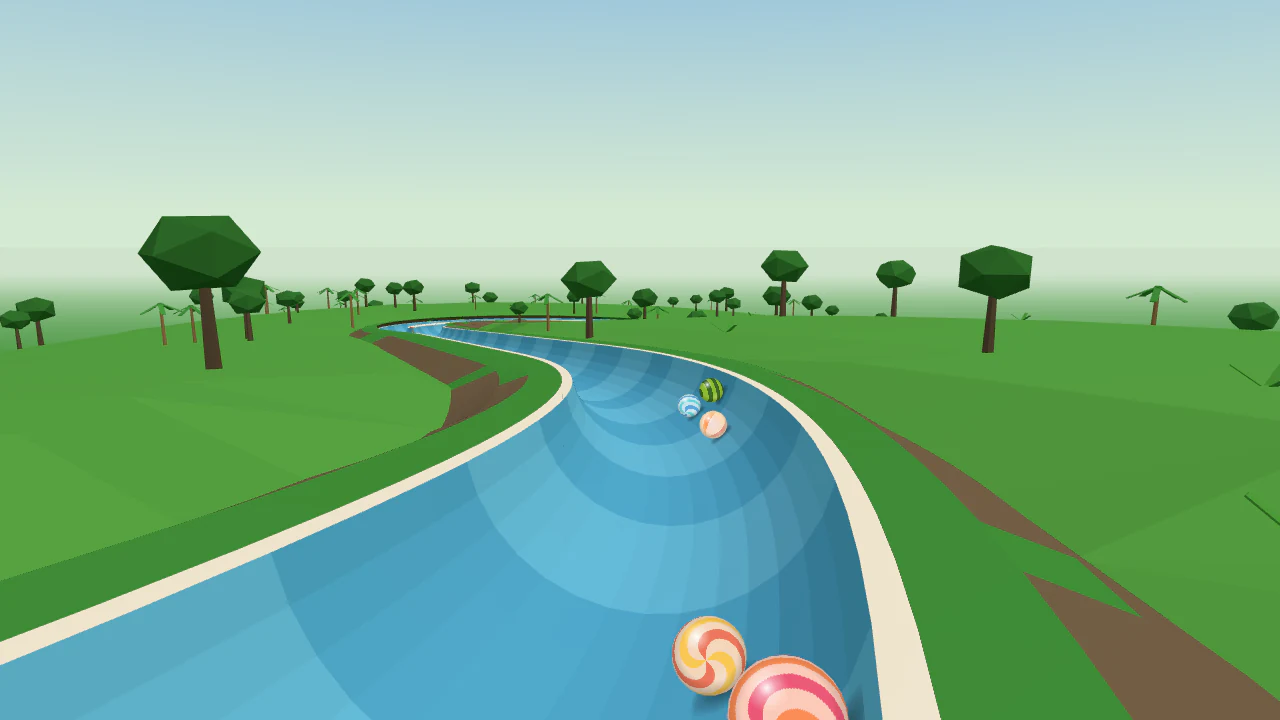
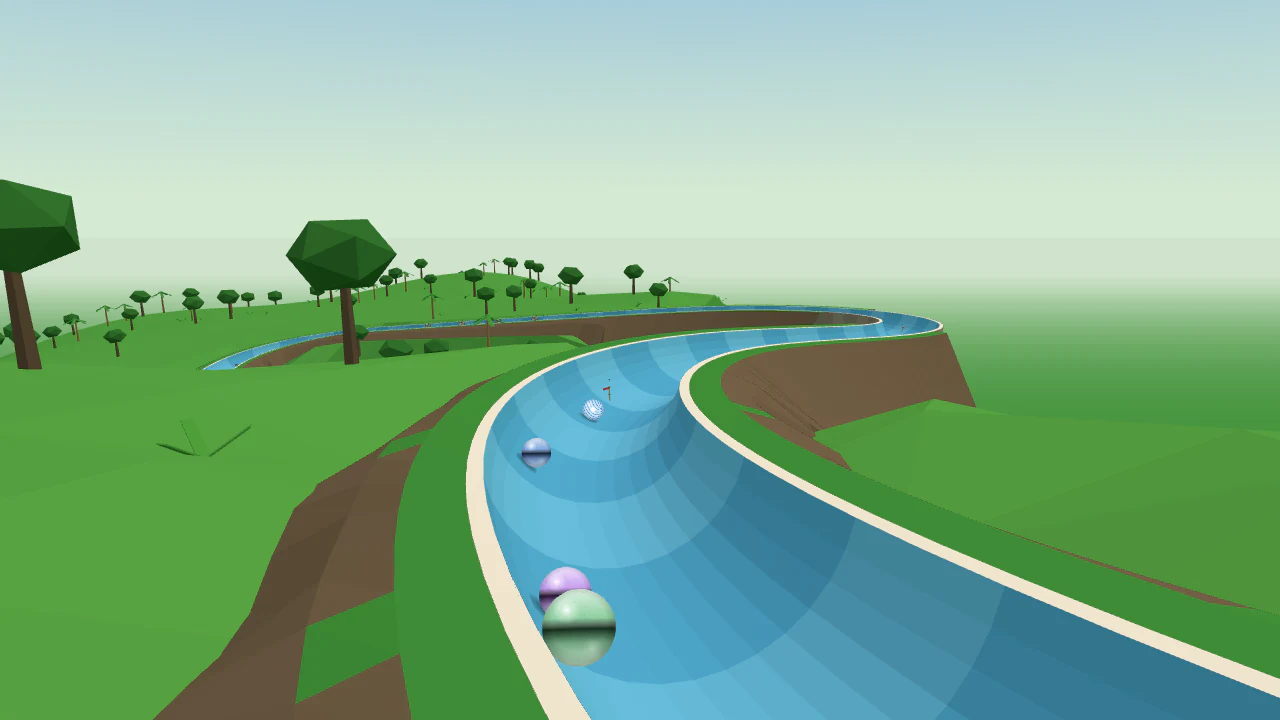
Amazon Water Run: its own layout; its records start again
Until now nearly the same track as the old World Tour design. Over the first
waterfall past the floating logs (the field now let go in waves: a track whose
start is its own first section can set waves on the track itself), tight
S-bends through the jungle, the rapids, the caiman hairpin, over the second
waterfall (the big feature and signature), the root spiral, S-bends along the
river and the run to the village on stilts. Full report 50/50; Easy 30. Data
updates 2027-07-27. Off the known failures. Race fingerprints unchanged.

Claude-Session: https://claude.ai/code/session_011vSSkqNPL9kncfzrwF15wS

diff --git a/src/tracks/amazon-water-run.js b/src/tracks/amazon-water-run.js
@@ -5,8 +5,8 @@
 // Designs", 5), built with the track kit. (Toucans, a sloth, a river dolphin, a caiman
 // and a jaguar: Rio has the jungle start and the anaconda.)
 const {
-  track, straight, sBends, sweep, spiral, hairpin, splitter, waterfall, runIn,
-  block, pileUp, slalom, boost, bump,
+  track, straight, sBends, spiral, hairpin, waterfall, runIn,
+  block, pileUp, slalom, bump, peg, brake,
 } = require('../trackKit');
 
 module.exports = track({
@@ -20,8 +20,8 @@ module.exports = track({
   variants: ['rain', 'fog'],
   signature: 'Second waterfall',
   tvCameras: [
-    { section: 'Second waterfall', at: 0.8, side: 'left', distance: 6, height: 12 },
-    { section: 'Island splitter', at: 0.8, side: 'right', distance: 6, height: 5 },
+    { section: 'Pool below the falls', at: 0.5, side: 'left', distance: 6, height: 12 },
+    { section: 'Jungle S-bends', at: 0.85, side: 'right', distance: 6, height: 6 },
   ],
   billboardFrame: 'wood',
   // The gate on mossy rocks at the top of a waterfall, toucans on the branches overhead; the
@@ -29,11 +29,14 @@ module.exports = track({
   start: { landmark: 'toucan-tree', gate: 'paddle', shots: { countdown: 'side', launch: 'high-behind' } },
   finish: { landmark: 'teatro-amazonas', scenery: ['stilt-houses'] },
   designChanges: [
-    'The floating logs lie in a pile-up where the first waterfall pours into the river, followed by river marker stakes glanced off like slalom gates, instead of on the S-bends: with no obstacles down the start the front of the gate won far too often (the first starting group finished 3 places ahead of the last), and logs on the bends spread the field to a 30 s gap.',
-    'A 40 m straight, "Pool below the falls", between the second waterfall and the root spiral: without it the spiral wound round right beside the waterfall\'s rock fill, which came between the follow camera and its marble.',
-    'The root spiral winds down in the open jungle, not through a tunnel of giant roots: the roots tunnel, seen across the hillside from much of the track, took a phone over its drawing budget (36 draw calls; 35 allowed).',
-    'A 35 m straight, "Run to the falls", between the hairpin and the second waterfall: the recipe needs a straight before a waterfall, so the field comes down off the walls before the lip.',
+    'Its own layout (Moses, 15 Nov 2026: World Tour re-layouts): over the first waterfall past the floating logs, tight S-bends through the jungle, the rapids, the caiman hairpin, over the second waterfall (the big feature, through its falling water), the root spiral, S-bends past the sloth and the river dolphin and the run to the village on stilts.',
+    'The floating logs lie in a pile-up where the first waterfall pours into the river, followed by river marker stakes glanced off like slalom gates: with no obstacles down the start the front of the gate won far too often.',
+    'A straight, "Pool below the falls", between the second waterfall and the root spiral: without it the spiral wound round right beside the waterfall\'s rock fill, which came between the follow camera and its marble.',
+    'The root spiral winds down in the open jungle, not through a tunnel of giant roots: the roots tunnel took a phone over its drawing budget.',
+    'A straight, "Run to the falls", between the hairpin and the second waterfall: the recipe needs a straight before a waterfall, so the field comes down off the walls before the lip.',
   ],
+  // (Let go in jittered waves, a new order every race: without them the front starting places won more.)
+  waves: { groups: 5, gap: 0.13, jitter: 0.1 },
   sections: [
     {
       // Floating logs piled up where the waterfall pours into the river, then the river pilots' marker stakes.
@@ -41,27 +44,35 @@ module.exports = track({
       obstacles: [pileUp({ costume: 'log', at: 0.42 }), slalom({ costume: 'river-stake', from: 0.55, to: 0.97, count: 6, loss: 0.3 })],
     },
     {
-      name: 'River S-bends', shape: sBends({ first: 'left', radius: 75, degrees: 80, grade: 0.13 }),
-      billboards: 1,
-    },
-    {
-      name: 'Island splitter', shape: splitter({ side: 'left', balance: { tipOffset: -0.8, left: { drag: 1.32, scrub: 1.32 }, right: { drag: 0.42, scrub: 0.72 } } }),
-      around: 'river-island',
-    },
-    {
-      name: 'Wide river sweep', shape: sweep({ side: 'right', radius: 80, degrees: 160, grade: 0.07 }), features: [boost({ at: 0.08 })], billboards: 2,
-      landmarks: [{ name: 'river-pool', at: 0.5, side: 'left', distance: 18 }],
+      name: 'Jungle S-bends', shape: sBends({ first: 'left', radius: 55, degrees: 110, grade: 0.12 }), billboards: 2,
+      landmarks: [{ name: 'river-pool', at: 0.5, side: 'right', distance: 24 }],
+      obstacles: [peg({ costume: 'river-stake', at: 0.35, line: 'right' }), peg({ costume: 'river-stake', at: 0.7, line: 'left' })],
     },
     // The rapids: rocks under the surface, two low bumps. (Also the braking zone before the hairpin.)
-    { name: 'Rapids', shape: straight(80, { grade: 0.14 }), features: [bump({ at: 0.45 }), bump({ at: 0.65 })], billboards: 1 },
-    { name: 'Caiman hairpin', shape: hairpin({ side: 'left' }), obstacles: [block({ costume: 'caiman', line: 'high', size: 'large' })] },
+    {
+      name: 'Rapids', shape: straight(80, { grade: 0.13 }), features: [bump({ at: 0.5 }), bump({ at: 0.7 })], billboards: 1,
+      obstacles: [peg({ costume: 'river-stake', at: 0.15, line: 'left' }), peg({ costume: 'river-stake', at: 0.28, line: 'right' })],
+    },
+    { name: 'Caiman hairpin', shape: hairpin({ side: 'right' }), obstacles: [block({ costume: 'caiman', line: 'high' })] },
     // (Not in the design: the recipe needs a straight before a waterfall, so the field comes down off the walls first.)
     { name: 'Run to the falls', shape: straight(35, { grade: 0.15 }) },
+    // The track's big feature: the second waterfall, the field dropping through its falling water.
     { name: 'Second waterfall', shape: waterfall(60, { grade: 0.38, curtain: true }) },
     // (Not in the design: a pool below the falls, so the spiral starts clear of the waterfall's rock fill.)
     { name: 'Pool below the falls', shape: straight(40, { grade: 0.15 }) },
-    { name: 'Root spiral', shape: spiral({ side: 'right', radius: 45, grade: 0.17 }) },
-    { name: 'Final run', shape: straight(90, { grade: 0.2 }), figures: ['jaguar'] },
+    {
+      name: 'Root spiral', shape: spiral({ side: 'right', radius: 45, grade: 0.14 }),
+      obstacles: [peg({ costume: 'river-stake', at: 0.35, line: 'right' }), peg({ costume: 'river-stake', at: 0.7, line: 'left' })],
+    },
+    {
+      name: 'River S-bends', shape: sBends({ first: 'right', radius: 65, degrees: 90, grade: 0.12 }), billboards: 1,
+      obstacles: [peg({ costume: 'river-stake', at: 0.25, line: 'left' }), peg({ costume: 'river-stake', at: 0.5, line: 'center' }), peg({ costume: 'river-stake', at: 0.75, line: 'right' })],
+    },
+    {
+      name: 'Final run', shape: straight(85, { grade: 0.13 }), figures: ['jaguar'],
+      features: [brake({ at: 0.05, length: 10, drag: 0.02 })],
+      obstacles: [slalom({ costume: 'river-stake', from: 0.5, to: 0.88, count: 3, loss: 0.35 })],
+    },
     { name: 'Finish', shape: runIn(), landmarks: [{ name: 'river-dock', at: 0.5, side: 'left', distance: 6 }] },
   ],
 });

diff --git a/test/trackKit.test.js b/test/trackKit.test.js
@@ -56,7 +56,7 @@ test('every kit track opens with Bobsleigh Run\'s starting ramp, gate, channel a
     // (The staggered drop and the varied starts let the field go in waves: their funnel has that one setting more.
     // Any other opening only where its track asks for them, listed here: Nevada Drag Strip's crest start.)
     const { waves, ...rest } = funnel;
-    if (waves) assert.ok(['staggered-drop', 'clean-drop', 'peg-drop', 'pipe-drop', 'rolling-start', 'chicane-start', 'rumble-start'].includes(t.physics.kit.opening) || ['nevada-drag-strip', 'hudson-highlands-run', 'iguazu-devils-throat', 'chao-phraya-dawn-spiral', 'blyde-potholes-spiral', 'kings-canyon-lost-city', 'huashan-plank-walk', 'etna-valle-del-bove', 'tianmen-heavens-gate', 'sunken-ruins', 'are-run', 'greenland-expedition', 'dubai-twister', 'rio-jungle-rumble', 'china-wall-twister', 'baqueira-beret-run', 'portes-du-soleil-run',  'crystal-grotto', 'moon-base'].includes(t.slug), `${t.slug}: waves at the gate`);
+    if (waves) assert.ok(['staggered-drop', 'clean-drop', 'peg-drop', 'pipe-drop', 'rolling-start', 'chicane-start', 'rumble-start'].includes(t.physics.kit.opening) || ['nevada-drag-strip', 'hudson-highlands-run', 'iguazu-devils-throat', 'chao-phraya-dawn-spiral', 'blyde-potholes-spiral', 'kings-canyon-lost-city', 'huashan-plank-walk', 'etna-valle-del-bove', 'tianmen-heavens-gate', 'sunken-ruins', 'are-run', 'greenland-expedition', 'dubai-twister', 'rio-jungle-rumble', 'china-wall-twister', 'baqueira-beret-run', 'portes-du-soleil-run', 'amazon-water-run',  'crystal-grotto', 'moon-base'].includes(t.slug), `${t.slug}: waves at the gate`);
     if (!['funnel-drop', 'staggered-drop'].includes(t.physics.kit.opening)) assert.deepEqual(rest, tmFunnel);
     assert.deepEqual(t.physics.gate, bob.physics.gate);
     assert.equal(t.physics.collisions, true);

diff --git a/src/trackKit/index.js b/src/trackKit/index.js
@@ -385,11 +385,12 @@ function track(spec) {
     ...(spec.designChanges?.length && { designChanges: [...spec.designChanges] }),
     physics: {
       ...BASE_PHYSICS,
-      // An opening that changes the gate: the field let go in waves, or a wider, longer funnel.
-      ...((spec.opening?.waves || spec.opening?.funnel || wides.length) && {
+      // An opening that changes the gate: the field let go in waves, or a wider, longer funnel. (A track whose start is
+      // its own first section, a waterfall such as Amazon Water Run's, sets `waves` on the track itself: 15 Nov 2026.)
+      ...((spec.opening?.waves || spec.waves || spec.opening?.funnel || wides.length) && {
         channel: {
           ...BASE_PHYSICS.channel,
-          funnel: { ...BASE_PHYSICS.channel.funnel, ...spec.opening?.funnel, ...(spec.opening?.waves && { waves: { ...spec.opening.waves } }) },
+          funnel: { ...BASE_PHYSICS.channel.funnel, ...spec.opening?.funnel, ...((spec.opening?.waves ?? spec.waves) && { waves: { ...(spec.opening?.waves ?? spec.waves) } }) },
           ...(wides.length && { wides }),
         },
       }),

diff --git a/test/samenessAllTracks.test.js b/test/samenessAllTracks.test.js
@@ -35,7 +35,6 @@ const KNOWN = {
   // World Tour.
 
 
-  'amazon-water-run': ['layout'],
   // Grand Prix (one design: Dubai's; Stockholm, Lagos, Istanbul, Sydney, Nairobi, Delhi, Sahara and Wyrmwood Hollow have their own since 6–7 Nov 2026).
   'dubai-marble-grand-prix': ['opening', 'opening-kind', 'layout'],
   'elderglade-marble-grand-prix': ['opening-kind'], // (its opening and layout are its own since Sydney, Lagos and Stockholm got theirs, 7 Nov 2026)

diff --git a/docs/06-decisions.md b/docs/06-decisions.md
@@ -4,7 +4,7 @@
 
 | Date | Decision | Why |
 |---|---|---|
-| 2026-11-15 | **World Tour re-layouts** (Moses, 21:20: every World Tour pack track still on the sameness test's known failures gets its own layout and opening, with a signature feature from the real place, as the Grand Prix re-layouts; then seven new World Tour tracks to fill the pack to 20). Each keeps its name, slug and look; a `--relayout` data update starts its records again (`tracks.records_since`), and a `<slug>-to-world-tour` update sets its new wildness (the pack script now takes a kit track with no series marker as World Tour, as the server does). Done: **Åre Run** (Wild 43, was Easy 29: a rumble start down the summit moguls, the hairpin, a sweep under the gondola, down the World Championship slope as the big feature, the funicular spiral; `2027-07-18-…`), **Greenland Expedition** (Wild 44: a snowdrift start, the sand-trap opening, past the sled dogs, the ice cave as the big feature, a long steep drop inside the glacier; `2027-07-19-…`), **Park City Run** (Wild 37: a rolling start from the lift station, down the old silver mine's shaft as the big feature; `2027-07-20-…`), **Dubai Twister** (Wild 39: a sand-trap start through the dunes, up a red dune and down its face, the Twister spiral round the twisting tower as the big feature; the falcon no longer swoops at the hairpin, as knocked marbles fell too far behind; `2027-07-21-…`), **Rio Jungle Rumble** (Extreme 47: a rumble start down the jungle path, the Selarón Steps, the turn right round Guanabara Bay under the cable car as the big feature; `2027-07-22-…`), **China Wall Twister** (Wild 40: a tunnel-launch start through a gate in the Wall, along the Wall and down its steps, the dragon drop as the big feature; `2027-07-23-…`), **Baqueira-Beret Run** (Wild 45: a rolling start and a wide turn across the open bowl, the bell-tower spiral, the Escornacrabes couloir as the big feature; `2027-07-24-…`), **Paris Eiffel Tower Run** (Easy 32: its classic start kept, down the Rue Lepic's cobbles, a spiral right round the Arc de Triomphe on the Étoile as the big feature; `2027-07-25-…`), **Portes du Soleil Run** (Wild 45: its classic start kept, now with waves, the Swiss Wall from Chavanette as the big feature; `2027-07-26-…`). Paris Eiffel Tower Run and Portes du Soleil Run keep the two classic openings the World Tour allows. (A pile-up at the gate spreads the field by about 5 s before the first bend; the re-laid tracks without one pass the report's first-to-last gap more easily.) | The old World Tour tracks were built from one design and raced alike (several pairs identical, nine with the same opening). |
+| 2026-11-15 | **World Tour re-layouts** (Moses, 21:20: every World Tour pack track still on the sameness test's known failures gets its own layout and opening, with a signature feature from the real place, as the Grand Prix re-layouts; then seven new World Tour tracks to fill the pack to 20). Each keeps its name, slug and look; a `--relayout` data update starts its records again (`tracks.records_since`), and a `<slug>-to-world-tour` update sets its new wildness (the pack script now takes a kit track with no series marker as World Tour, as the server does). Done: **Åre Run** (Wild 43, was Easy 29: a rumble start down the summit moguls, the hairpin, a sweep under the gondola, down the World Championship slope as the big feature, the funicular spiral; `2027-07-18-…`), **Greenland Expedition** (Wild 44: a snowdrift start, the sand-trap opening, past the sled dogs, the ice cave as the big feature, a long steep drop inside the glacier; `2027-07-19-…`), **Park City Run** (Wild 37: a rolling start from the lift station, down the old silver mine's shaft as the big feature; `2027-07-20-…`), **Dubai Twister** (Wild 39: a sand-trap start through the dunes, up a red dune and down its face, the Twister spiral round the twisting tower as the big feature; the falcon no longer swoops at the hairpin, as knocked marbles fell too far behind; `2027-07-21-…`), **Rio Jungle Rumble** (Extreme 47: a rumble start down the jungle path, the Selarón Steps, the turn right round Guanabara Bay under the cable car as the big feature; `2027-07-22-…`), **China Wall Twister** (Wild 40: a tunnel-launch start through a gate in the Wall, along the Wall and down its steps, the dragon drop as the big feature; `2027-07-23-…`), **Baqueira-Beret Run** (Wild 45: a rolling start and a wide turn across the open bowl, the bell-tower spiral, the Escornacrabes couloir as the big feature; `2027-07-24-…`), **Paris Eiffel Tower Run** (Easy 32: its classic start kept, down the Rue Lepic's cobbles, a spiral right round the Arc de Triomphe on the Étoile as the big feature; `2027-07-25-…`), **Portes du Soleil Run** (Wild 45: its classic start kept, now with waves, the Swiss Wall from Chavanette as the big feature; `2027-07-26-…`), **Amazon Water Run** (Easy 30: its first waterfall kept, now with waves, tight S-bends through the jungle, the second waterfall as the big feature; `2027-07-27-…`). A track whose start is its own first section (a waterfall) can now set `waves` on the track itself (`src/trackKit/index.js`); no other track changes. Paris Eiffel Tower Run and Portes du Soleil Run keep the two classic openings the World Tour allows. (A pile-up at the gate spreads the field by about 5 s before the first bend; the re-laid tracks without one pass the report's first-to-last gap more easily.) | The old World Tour tracks were built from one design and raced alike (several pairs identical, nine with the same opening). |
 | 2026-11-15 | **Seven more Blocks 1 tracks: the Blocks 1 pack filled to 20** (Moses, 13:38: the game-world look, our own voxel worlds with retro-game touches, never another game's names, creatures, textures or falling pieces; same rules as the Canyons and Peaks; 2 Easy, 3 Wild, 2 Extreme). Built, each pushed switched off in the Blocks 1 pack, not free: **Mushroom Grove** (Easy 24: a drop off a giant mushroom's cap), **Sunken Ruins** (Easy 17: a banked turn round a sunken dome), **Clockwork Works** (Wild 39: a splitter round a giant gear), **Crystal Grotto** (Wild 44: a spiral round a crystal spire), **Jungle Ruins** (Wild 45: a waterfall drop through falling water), **Moon Base** (Extreme 60: a 66 m drop over a crater's rim), **Neon Grid** (Extreme 57: a loop over the glowing grid, 69 overtakes); data updates `2027-07-11-…` to `2027-07-17-…`; seven new worlds, `kitLandmarksBlockWorlds.js` and three Blocks 1 start types (`portal-gate`, `block-pyramid`, `gear-tower`). On phones a Block Series cube pillar is now at most 8 cubes (each taller), as Crystal Grotto's tall pillars went over the triangle budget; looks only. Status: project doc `claude/blocks-1-seven-more-status.md`. Waiting for Moses's deploy (with the Canyons and Peaks), then his look at each preview before switching on. | With them the Blocks 1 pack has 20 besides the free Spawn Point and can go on sale. |
 | 2026-11-15 | **Six more Peaks tracks: the Peaks pack filled to 20** (Moses, 09:45: same rules as the six Canyons, and 65+ overtakes on a loop track; 2 Easy, 2 Wild, 2 Extreme; six famous mountains not yet in the series, each with two signature features, unlike the World Tour's alpine resorts). Built, each pushed switched off in the Peaks pack, not free: **Half Dome Granite Slabs** (Easy 31: a drop down the granite slabs below the face), **Huayna Picchu Terraces** (Extreme 48: a splitter round a terraced hill), **Huashan Plank Walk** (Easy 20: a dramatic banked turn round the plank walk's cliff), **Eiger North Face** (Wild 43: a banked spiral round a window pillar), **Etna Valle del Bove** (Extreme 50: a drop into the Valle del Bove), **Tianmen Heaven's Gate** (Wild 41: a loop under the great arch, 69 overtakes); data updates `2027-07-05-…` to `2027-07-10-…`; six palettes and `kitLandmarksPeak2.js`; the pack script knows Peaks. Huayna came out Extreme and Huashan Easy, Etna Extreme and Tianmen Wild (planned otherwise); the mix stays 2/2/2. Status: project doc `claude/peaks-six-more-status.md`. Waiting for Moses's deploy (with the Canyons), then his look at each preview before switching on. | With them the Peaks pack has 20 besides the free Everest Icefall Run and can go on sale. |
 | 2026-11-15 | **A coaster track can have a loop** (Kings Canyon Lost City, the first): over the loop's span the coaster's rails, spine, ties and towers stop (3 m either side), as the loop draws its own track and steel along its own path; before, they ran along the ground under it, 64 m with no rim under the rails, and blocked the follow camera. The rails check (`railGaps`) now finds each rail line's first point along the whole track (by height too), so lines that start after a loop are checked where they are. Looks only: race results unchanged. | A loop in a canyon is the Canyons series' loop; the coaster kit had never met one. |

diff --git a/docs/README.md b/docs/README.md
@@ -8,7 +8,7 @@
 
 **Where it stands:**
 - **Website:** live at marblespins.com (Vercel builds every push to `Main`; production is at `548aeb8`, 15 Nov). Soft start (social media, a daily set of videos, 10–20 invited test pilots) since the week of 26 Oct. **Official launch 1 Dec 2026**, with the Holiday Season, the season pass and the apps. GA4 on since 31 Oct (after cookie consent); the Meta Pixel off.
-- **Tracks: 152 live in ten series** (World Tour, Grand Prix, Coasters, Canyons, Blocks, Track and Field, Rivers, Peaks, Pinball, Arcade), since the 9 motorsport Grand Prix tracks were switched on on 13 Nov; 191 in the database. **Switched off, waiting for Moses:** five more Rivers tracks (on the server since 13 Nov: Yukon Five Finger Run, Arno Old Bridge Run, Chao Phraya Dawn Spiral, Hudson Highlands Run, Iguazú Devil's Throat) and six more Canyons tracks (on Main, **waiting for the server deploy**: Bryce Hoodoo Run, Blyde Potholes Spiral, Taroko Marble Gorge, Samaria Iron Gates, Kings Canyon Lost City, the first coaster track with a loop, and Sumidero Christmas Falls; data updates `2027-06-29-…` to `2027-07-04-…`) and six more Peaks tracks (on Main, **waiting for the same deploy**: Half Dome Granite Slabs, Huayna Picchu Terraces, Huashan Plank Walk, Eiger North Face, Etna Valle del Bove, Tianmen Heaven's Gate; data updates `2027-07-05-…` to `2027-07-10-…`) and seven more Blocks 1 tracks (on Main, **waiting for the same deploy**: Mushroom Grove, Sunken Ruins, Clockwork Works, Crystal Grotto, Jungle Ruins, Moon Base, Neon Grid; data updates `2027-07-11-…` to `2027-07-17-…`); World Tour re-layouts (on Main, **waiting for the same deploy**; their records start again): Åre Run, Greenland Expedition, Park City Run, Dubai Twister, Rio Jungle Rumble, China Wall Twister, Baqueira-Beret Run, Paris Eiffel Tower Run, Portes du Soleil Run (`2027-07-18-…` to `2027-07-26-…`). Moses deploys Canyons, Peaks, Blocks 1 and the World Tour work together. The 31 holiday tracks are switched on but hidden and closed until 1 Dec 00:00 Swedish time (183 live then).
+- **Tracks: 152 live in ten series** (World Tour, Grand Prix, Coasters, Canyons, Blocks, Track and Field, Rivers, Peaks, Pinball, Arcade), since the 9 motorsport Grand Prix tracks were switched on on 13 Nov; 191 in the database. **Switched off, waiting for Moses:** five more Rivers tracks (on the server since 13 Nov: Yukon Five Finger Run, Arno Old Bridge Run, Chao Phraya Dawn Spiral, Hudson Highlands Run, Iguazú Devil's Throat) and six more Canyons tracks (on Main, **waiting for the server deploy**: Bryce Hoodoo Run, Blyde Potholes Spiral, Taroko Marble Gorge, Samaria Iron Gates, Kings Canyon Lost City, the first coaster track with a loop, and Sumidero Christmas Falls; data updates `2027-06-29-…` to `2027-07-04-…`) and six more Peaks tracks (on Main, **waiting for the same deploy**: Half Dome Granite Slabs, Huayna Picchu Terraces, Huashan Plank Walk, Eiger North Face, Etna Valle del Bove, Tianmen Heaven's Gate; data updates `2027-07-05-…` to `2027-07-10-…`) and seven more Blocks 1 tracks (on Main, **waiting for the same deploy**: Mushroom Grove, Sunken Ruins, Clockwork Works, Crystal Grotto, Jungle Ruins, Moon Base, Neon Grid; data updates `2027-07-11-…` to `2027-07-17-…`); World Tour re-layouts (on Main, **waiting for the same deploy**; their records start again): Åre Run, Greenland Expedition, Park City Run, Dubai Twister, Rio Jungle Rumble, China Wall Twister, Baqueira-Beret Run, Paris Eiffel Tower Run, Portes du Soleil Run, Amazon Water Run (`2027-07-18-…` to `2027-07-27-…`). Moses deploys Canyons, Peaks, Blocks 1 and the World Tour work together. The 31 holiday tracks are switched on but hidden and closed until 1 Dec 00:00 Swedish time (183 live then).
 - **Server:** last deployed **13 Nov 2026, ~23:00** (code fingerprint `7abad7e4c43d`, Main `7a3342d`; 57 tables, 527 columns): the Stripe webhook's refusals logged and its readiness on `/health`. The week's other deploys (12 Nov `b5cc113debdb` and `bc1bd7ff096f`; 13 Nov ~14:20 `8d7a15a7631e`, ~18:30 `6be622039502`, ~21:45 `c25a2aa05c5b`) brought wildness and track packs, pack sales, the free set of 15, the motorsport Grand Prix tracks, where players come from and the five Rivers. Main is at fingerprint `5636207a9263`: the next deploy brings only the six Canyons tracks.
 - **Wildness and track packs:** every live track is Easy / Wild / Extreme (from 1,000 report races; 68 / 61 / 23 of the 152), shown as a badge and a picker filter. 11 packs (one per series; Pinball and Arcade separate; Blocks 1 and 2), **$7.99, or 1,990 coins + $5.99**, on the website (Stripe, test mode), Google Play and the App Store. **Free set: 15 tracks**, one or two per series. **Complete packs** (20 live besides the free ones): Blocks 2 and Grand Prix; Rivers and Canyons have 20 once their new tracks are on. **Locking and selling are off** (`TRACK_PACKS`); only complete packs lock when it is on. The website keeps saying every track is free until `PACKS_LIVE` (`client/src/shared/packWording.js`). First end-to-end test purchase (Grand Prix pack, Stripe test mode) worked on 13 Nov. Still to do: the store products, the pack terms of sale (draft at `/preview/legal-packs`), Moses's go.
 - **Apps:** iPhone and Android (Capacitor). **Android 1.0.0 (5) in Play internal testing, tested by Moses on 13 Nov:** hit and bump sounds work, the ceremony song stops (the slow-phone and sound fixes of 11–12 Nov confirmed). `client/app-version.json` and the iPhone project at 1.0.0 (5); the next build is 6 (`npm run app:version -- build`). **Store submission planned for 16–20 Nov.**
